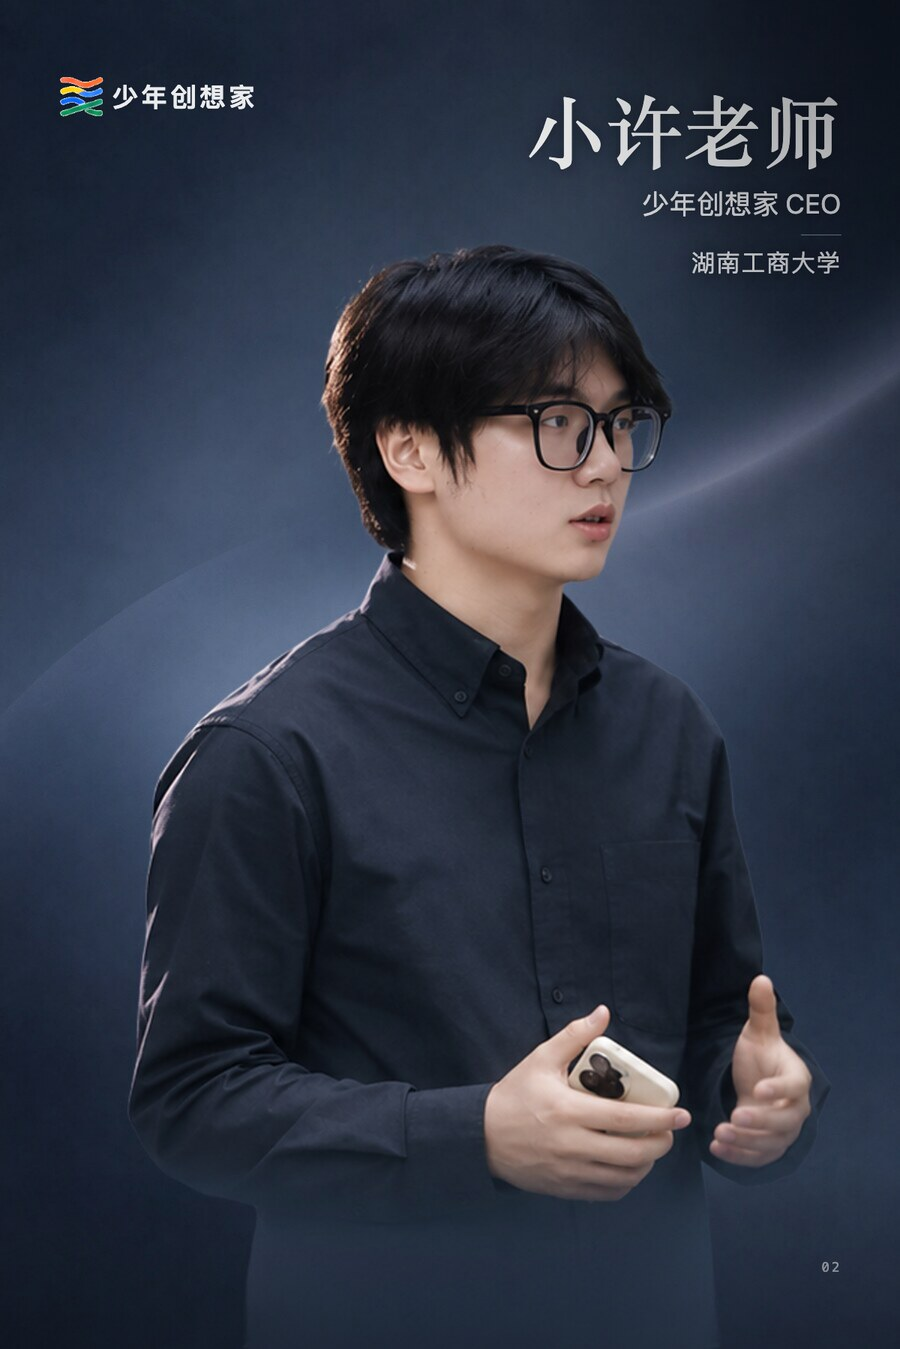
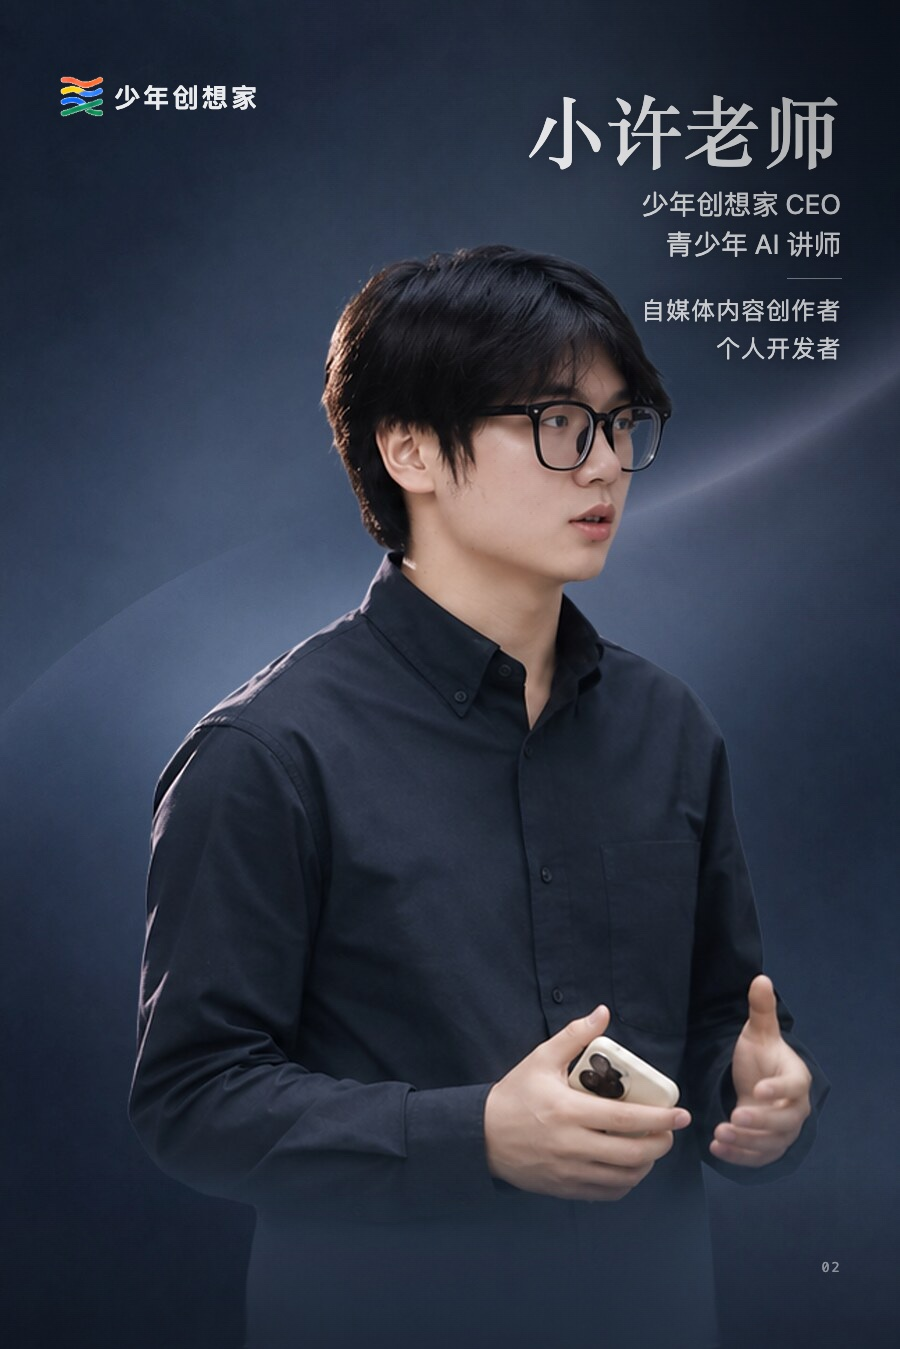
Publish CEO and teaching titles on mentor card

Changed region(s): [[0.7156, 0.1245, 0.9333, 0.2802], [0.1244, 0.0623, 0.28, 0.0934], [0.0622, 0.0623, 0.0933, 0.0934]]

diff --git a/event-demo.html b/event-demo.html
@@ -1353,6 +1353,294 @@ h2,
   .cap-visual, .cap-mount { height: 210px; }
 }
 
+/* Course rows are selectable controls; the community opens its contact image. */
+button.program-row { width:100%; border:0; background:transparent; font:inherit; text-align:left; cursor:pointer; }
+button.program-row:hover, button.program-row.is-active { background:var(--surface); }
+#qr-dialog { cursor:auto; overflow-y:auto; }
+#qr-lightbox-title { font-size:1.2rem; margin:0 0 12px; }
+#qr-dialog img { max-height:55dvh; touch-action:pan-x pan-y pinch-zoom; -webkit-touch-callout:default; user-select:auto; }
+#qr-download { margin:12px auto 0; min-height:44px; }
+
+/* The full brief occupies the same 240px illustration stage as its neighbours. */
+.question-flow { width:100%; max-width:360px; display:grid; gap:28px; padding:12px 8px; font-size:14px; }
+.question-seed { color:var(--ink); font-weight:650; }
+.question-branches { display:flex; justify-content:space-between; gap:10px; position:relative; }
+.question-branches::before { content:""; position:absolute; top:-14px; left:15%; right:15%; height:12px; border-top:1px solid #a9b7db; border-left:1px solid #a9b7db; border-right:1px solid #a9b7db; }
+.question-branches span { flex:1; text-align:center; padding:9px 2px; background:#e9eef9; color:#2445a6; border-radius:4px; }
+.question-goal { color:var(--ink); padding-left:12px; border-left:3px solid #2445a6; line-height:1.6; }
+
+
+.ocean-chapter { padding-block:80px; }
+.ocean-heading { display:flex; justify-content:space-between; align-items:end; gap:32px; margin-bottom:32px; }
+.ocean-heading h2 { font-size:clamp(30px,4.2vw,58px); line-height:1.25; letter-spacing:-.04em; }
+.ocean-heading p { color:var(--muted); font-size:17px; line-height:1.8; }
+#idea-ocean { min-height:480px; overflow:hidden; border-radius:12px; }
+.ocean-bottom { display:flex; justify-content:space-between; align-items:center; gap:24px; padding-top:16px; font-size:14px; color:var(--muted); }
+#brand-intro { position:fixed; inset:0; z-index:1000; isolation:isolate; overflow:hidden; background:#123da6; }
+#brand-intro[hidden] { display:none; }
+#brand-intro-scene { position:absolute; inset:0; pointer-events:none; }
+#brand-intro-scene > [data-motion-surface] { animation:intro-scene-in 240ms ease-out both; }
+@keyframes intro-scene-in { from { opacity:0; } }
+.intro-exit { pointer-events:none; }
+.intro-brand { position:absolute; inset:0; display:flex; justify-content:center; align-items:center; gap:16px; color:white; font-size:clamp(30px,6vw,64px); font-weight:750; text-shadow:0 2px 16px #00244988; pointer-events:none; }
+#intro-skip { position:absolute; right:24px; bottom:max(24px,env(safe-area-inset-bottom)); background:#ffffffdd; padding:12px 24px; border:0; border-radius:30px; color:#12346a; cursor:pointer; }
+@media(max-width:620px) { .ocean-heading{display:block}.ocean-heading p{margin-top:16px}.ocean-chapter{padding-block:48px}.ocean-bottom{align-items:start} }
+
+/* Branch experiment: the brand lines connect the hero to the reading section. */
+.hero-chapter { position:relative; isolation:isolate; overflow:clip; background:#f8f9fc; }
+#hero-wave { position:absolute; inset:0; width:100%; height:100%; z-index:-1; pointer-events:none; mask-image:linear-gradient(to right,transparent 15%,#000 65%); }
+.hero-grid { position:relative; }
+.manifesto-chapter { position:relative; background:var(--bg,#f7f8fa); }
+.intro-pending .hero-title [data-line], .intro-pending [data-load] { animation-play-state:paused; }
+.intro-pending .site-header, .intro-pending main { pointer-events:none; }
+#brand-intro { will-change:opacity; }
+.intro-brand { animation:intro-brand-in 600ms cubic-bezier(.22,1,.36,1) both; }
+@keyframes intro-brand-in { from {opacity:0; transform:translateY(10px)} to {opacity:1;transform:none} }
+@media(prefers-reduced-motion:reduce) { .intro-brand {animation:none} }
+
+/* Full-screen ocean hero, with foreground reading and a lower central composer. */
+.hero-chapter { min-height:calc(100svh - 72px); padding:42px 0 260px; background:#f7faff; }
+#idea-ocean { position:absolute; inset:0; min-height:0; border-radius:0; overflow:hidden; z-index:0; }
+.hero-grid { z-index:1; min-height:400px; align-items:center; pointer-events:none; }
+.hero-copy,.hero-stage { pointer-events:auto; }
+.hero-copy { padding-block:18px; background:none; }
+.hero-title { font-size:clamp(52px,6vw,86px); }
+.hero-lead { font-size:18px; max-width:33ch; }
+.hero-stage { background:radial-gradient(ellipse,#f7faffdc 20%,#f7faff00 70%); }
+.capability-chapter { padding-block:80px; }
+.cap-item { grid-template-rows:280px auto auto auto; }
+.cap-visual,.cap-mount { height:280px; }
+.cap-visual { overflow:visible; }
+.cap-feedback { font-size:13px!important; color:var(--muted); margin-top:12px; min-height:40px; }
+@media(max-width:960px) {
+  .hero-chapter { padding:24px 0 56px; }
+  .hero-grid { gap:230px; }
+  .hero-copy { max-width:550px; }
+  .hero-stage { max-width:550px; width:100%; margin-inline:auto; }
+}
+@media(max-width:620px) {
+  .hero-title { font-size:48px; }
+  .hero-lead { font-size:16px; }
+  .hero-english { font-size:24px; }
+  .hero-copy { padding-block:0; }
+  .hero-card-swap { min-height:290px; }
+  .capability-chapter { padding-block:48px; }
+}
+
+.hero-sticky { position:relative; isolation:isolate; }
+.chapter-seam { height:clamp(150px,14vw,220px); margin-bottom:-1px; color:#e7edfd; pointer-events:none; }
+.chapter-seam svg { display:block; width:100%; height:100%; }
+#seam-fill { fill:currentColor; }
+.seam-wash { fill:#d5e4ff; opacity:.6; }
+.manifesto-chapter { background:transparent; padding:0; position:relative; z-index:2; }
+.manifesto-sheet { background:linear-gradient(180deg,#e7edfd 0,#f7f8fa 92px); padding:4px 0 clamp(56px,8vw,120px); }
+@media (min-width:961px) and (min-height:740px) and (prefers-reduced-motion:no-preference) {
+  .hero-chapter { height:calc(100svh - 72px + 72vh); min-height:0; padding:0; overflow:visible; }
+  .hero-sticky { position:sticky; top:72px; height:calc(100svh - 72px); overflow:hidden; padding:42px 0 24px; }
+  .manifesto-chapter { margin-top:-72vh; }
+  .manifesto-sheet { min-height:72vh; box-sizing:border-box; display:flex; flex-direction:column; justify-content:center; }
+}
+
+
+/* Match the first rendered artwork to the card that takes over after hydration. */
+.hero-card-swap { position:relative; }
+.hero-card-swap > .hero-photo {
+  position:absolute; top:50%; left:50%; width:min(46%,210px); margin:0;
+  transform:translate(-60%,-48%) rotate(5deg); border:5px solid white;
+  border-radius:14px; box-shadow:0 12px 26px #17295529;
+}
+.hero-card-swap > .hero-photo img { aspect-ratio:4/5; object-fit:cover; display:block; }
+#idea-ocean {
+  background-color:#f7faff;
+  background-image:linear-gradient(#2136560a 1px,transparent 1px),linear-gradient(90deg,#2136560a 1px,transparent 1px);
+  background-size:14px 14px;
+}
+.cap-mount:empty::before {
+  content:""; display:block; width:70%; height:54px; margin:113px auto 0;
+  background:#e8edf5; border-radius:14px;
+}
+
+@media (min-width:961px) and (max-height:739px), (min-width:961px) and (prefers-reduced-motion:reduce) {
+  .hero-chapter { padding-bottom:24px; }
+  .hero-sticky { padding-bottom:220px; }
+}
+
+/* Course details: a quiet editorial extension of the program index. */
+.course-action,.course-consult { justify-self:start; border:0; border-radius:999px; background:#1d49bb; color:#fff; font:inherit; font-weight:650; padding:13px 23px; cursor:pointer; }
+.course-action:hover,.course-consult:hover { background:#123a9d; }
+.course-details { scroll-margin-top:88px; margin-top:28px; }
+.course-panel { overflow:hidden; border-radius:26px; background:#fff; box-shadow:0 14px 45px #1b346011; }
+.course-intro { display:grid; grid-template-columns:1.25fr .75fr; gap:45px; align-items:end; padding:clamp(28px,5vw,72px); background:#eef4ff; }
+.course-intro h3 { margin:10px 0 20px; font-family:var(--font-display,serif); font-size:clamp(2rem,4.4vw,4rem); line-height:1.15; letter-spacing:-.04em; }
+.course-intro p:not(.course-kicker) { max-width:35em; font-size:1.05rem; line-height:1.8; color:#4a5a73; }
+.course-kicker { margin:0; color:#315cba; font-size:.78rem; font-weight:700; letter-spacing:.13em; }
+.course-facts { display:flex; flex-wrap:wrap; gap:10px; }
+.course-facts span { border:1px solid #c1d1ed; border-radius:99px; padding:9px 14px; color:#244477; font-size:.9rem; }
+.course-section-head { display:flex; justify-content:space-between; gap:24px; align-items:end; padding:clamp(32px,5vw,64px) clamp(28px,5vw,72px) 24px; }
+.course-section-head h4,.course-outcome h4,.community-highlight h4 { margin:10px 0 0; font-family:var(--font-display,serif); font-size:clamp(1.65rem,3vw,2.5rem); line-height:1.3; }
+.course-section-head > p { max-width:22em; color:#65738a; line-height:1.7; }
+.lesson-grid,.module-grid { display:grid; grid-template-columns:repeat(3,minmax(0,1fr)); gap:1px; margin:0 clamp(28px,5vw,72px) clamp(32px,5vw,64px); background:#e3e9f2; border:1px solid #e3e9f2; }
+.lesson-grid > div,.module-grid > div { background:white; padding:24px; transition:background .25s ease,transform .25s ease; }
+.lesson-grid > div:hover,.module-grid > div:hover { background:#f2f6ff; }
+.lesson-grid span,.module-grid span { color:#4265b5; font-size:.8rem; font-weight:700; }
+.lesson-grid h5,.module-grid h5 { margin:12px 0 8px; font-size:1.03rem; line-height:1.4; }
+.lesson-grid p,.module-grid p { color:#637088; font-size:.95rem; line-height:1.7; }
+.course-outcome { background:#102751; color:#fff; padding:clamp(30px,5vw,65px) clamp(28px,5vw,72px); }
+.course-outcome .course-kicker { color:#9ebfff; }
+.course-outcome > p:not(.course-kicker) { max-width:60em; margin:18px 0; line-height:1.9; color:#d7e4ff; }
+.course-outcome .course-small { font-size:.92rem; }
+.course-outcome .course-consult { background:#fff; color:#163b85; margin-top:8px; }
+.community-highlight { display:grid; grid-template-columns:.7fr 1.3fr; gap:35px; align-items:center; padding:clamp(32px,5vw,65px) clamp(28px,5vw,72px); border-bottom:1px solid #e4ebf6; }
+.community-highlight strong { font-size:clamp(4rem,8vw,7rem); line-height:1; letter-spacing:-.07em; color:#244db3; }
+.community-highlight strong span { font-size:.5em; }
+.community-highlight p:not(.course-kicker) { margin-top:14px; color:#627089; line-height:1.8; }
+@media(max-width:767px) { .course-intro,.community-highlight { grid-template-columns:1fr; gap:28px; } .course-section-head { display:block; } .course-section-head > p { margin-top:12px; } .lesson-grid,.module-grid { grid-template-columns:repeat(2,minmax(0,1fr)); } .lesson-grid > div,.module-grid > div { padding:18px; } }
+@media(max-width:420px) { .lesson-grid,.module-grid { grid-template-columns:1fr; } }
+@media(prefers-reduced-motion:reduce) { .lesson-grid > div,.module-grid > div { transition:none; } }
+
+/* Course pages: a calmer, editorial path through each program. */
+a.program-row { text-decoration:none; color:inherit; }
+@keyframes course-orbit { to { transform:translate(-4%,8%) scale(1.08); } }
+.course-folds { margin:0 clamp(28px,5vw,72px) clamp(40px,6vw,78px); border-top:1px solid #dce5f2; }
+.course-fold { border-bottom:1px solid #dce5f2; }
+.course-fold summary { display:flex; align-items:center; gap:24px; list-style:none; padding:26px 0; cursor:pointer; }
+.course-fold summary::-webkit-details-marker { display:none; }
+.fold-number { color:#5273b7; font-size:.85rem; font-variant-numeric:tabular-nums; min-width:3em; }
+.fold-title { display:grid; gap:5px; flex:1; }
+.fold-title strong { font-size:clamp(1.08rem,1.8vw,1.3rem); }
+.fold-title small { font-size:.91rem; color:#738096; }
+.fold-icon { display:grid; place-items:center; width:36px; height:36px; border:1px solid #ccd9eb; border-radius:50%; font-size:1.3rem; color:#315cba; transition:transform .25s,background .25s; }
+.course-fold[open] .fold-icon { transform:rotate(45deg); background:#edf3ff; }
+.course-fold .lesson-grid,.course-fold .module-grid { margin:0 0 25px; border:0; }
+.course-fold .lesson-grid > div,.course-fold .module-grid > div { background:#f6f9fe; }
+
+html.course-dialog-open { overflow: hidden; }
+#course-dialog {
+  width: min(960px, calc(100% - 40px));
+  max-width: none;
+  max-height: min(86dvh, 900px);
+  border: 1px solid #d4def0;
+  padding: 0;
+  border-radius: 24px;
+  color: var(--ink);
+  background: white;
+  box-shadow: 0 25px 90px #0a1b4555;
+  overflow: hidden;
+}
+#course-dialog[open] { display: flex; flex-direction: column; animation: course-arrive .32s var(--ease-out); }
+#course-dialog::backdrop { background: #101b38a6; backdrop-filter: blur(5px); }
+@keyframes course-arrive { from { opacity: 0; transform: translateY(16px) scale(.985); } }
+.course-dialog-bar {
+  display: flex;
+  justify-content: space-between;
+  align-items: center;
+  gap: 14px;
+  padding: 15px clamp(18px,4vw,38px);
+  border-bottom: 1px solid #dce5f2;
+  flex: none;
+}
+.course-dialog-bar h2 { font-size: 1.05rem; line-height: 1.4; }
+.course-dialog-bar button { min-height: 44px; padding: 0 14px; border-radius: 30px; background: #eef3fb; white-space: nowrap; }
+.course-dialog-body { overflow: auto; overscroll-behavior: contain; }
+#course-dialog .course-panel { border-radius: 0; box-shadow: none; }
+#course-dialog .course-intro { align-items: center; }
+.course-simple { padding: clamp(24px,5vw,55px); }
+.course-simple p { margin-top: 12px; }
+/* Paid courses share one price block in the overview, before the syllabus. */
+.course-intro .course-facts { margin-top: 18px; }
+.course-price {
+  min-width: 0;
+  align-self: start;
+  padding: 16px;
+  border: 1px solid #cddcf6;
+  border-radius: 20px;
+  background: #fff;
+  box-shadow: 0 15px 35px #315b9c16;
+}
+.course-price-label { display: block; margin-bottom: 10px; color: #4b6081; font-size: .9rem; }
+.scratch-surface { position: relative; perspective: 750px; }
+.tuition-value {
+  display: grid;
+  align-content: center;
+  justify-items: center;
+  min-height: 128px;
+  border: 1px solid #b9cbea;
+  border-radius: 14px;
+  background: #f9fbff;
+  color: #254c99;
+}
+.tuition-value strong { font-size: clamp(2rem,6vw,3.25rem); line-height: 1.1; letter-spacing: -.04em; }
+.tuition-value span { margin-top: 6px; }
+.scratch-foil {
+  position: absolute;
+  inset: 0;
+  width: 100%;
+  height: 100%;
+  border-radius: 14px;
+  box-shadow: 0 5px 14px #20468430, inset 0 1px #fff;
+  cursor: crosshair;
+  touch-action: none;
+  transform: rotateY(var(--foil-tilt, 0deg));
+  transition: transform .25s ease-out;
+}
+.scratch-skip { min-height: 44px; color: #284d91; text-decoration: underline; text-underline-offset: 4px; }
+.scratch-status { position: absolute; width: 1px; height: 1px; overflow: hidden; clip-path: inset(50%); }
+@media (max-width: 600px) {
+  #course-dialog { width: calc(100% - 20px); max-height: 92dvh; border-radius: 18px; }
+  #course-dialog .course-intro { gap: 18px; padding: 20px; }
+  .course-fold summary { gap: 12px; padding: 20px 0; }
+  .fold-icon { flex: 0 0 36px; }
+}
+@media (prefers-reduced-motion: reduce) {
+  #course-dialog[open] { animation: none; }
+  .scratch-foil, .fold-icon { transition: none; }
+}
+
+/* ============ Mentors ============ */
+.mentors-chapter {
+  padding-block: clamp(44px, 6vw, 96px) clamp(52px, 7vw, 112px);
+}
+
+.mentor-grid {
+  margin-top: clamp(28px, 4vw, 52px);
+  display: grid;
+  grid-template-columns: repeat(3, minmax(0, 1fr));
+  gap: clamp(12px, 1.6vw, 24px);
+}
+
+.mentor-card {
+  position: relative;
+  overflow: hidden;
+  border-radius: 16px;
+  background: #16202c;
+  box-shadow: 0 12px 34px -18px rgba(11, 13, 18, .45);
+  transition: transform var(--t-ui) var(--ease-out), box-shadow var(--t-ui) var(--ease-out);
+}
+
+.mentor-card img {
+  display: block;
+  width: 100%;
+  height: auto;
+  transform: scale(1.001);
+  transform-origin: 50% 32%;
+  transition: transform 1400ms var(--ease-out);
+  will-change: transform;
+}
+
+@media (hover: hover) and (prefers-reduced-motion: no-preference) {
+  .mentor-card:hover { transform: translateY(-3px); box-shadow: 0 26px 48px -22px rgba(11, 13, 18, .5); }
+  .mentor-card:hover img { transform: scale(1.045); }
+}
+
+@media (max-width: 640px) {
+  .mentor-grid { grid-template-columns: 1fr; gap: 14px; }
+}
+
+@media (prefers-reduced-motion: reduce) {
+  .mentor-card,
+  .mentor-card img { transition: none; }
+}
+
 </style>
   
 </head>
@@ -1385,6 +1673,7 @@ h2,
 <script>
 (() => {
   const el = (id) => document.getElementById(id);
+  const staticHosting = document.documentElement.hasAttribute('data-static-hosting');
   const standalone = location.protocol === 'file:' || document.documentElement.hasAttribute('data-standalone-demo');
   const samples = {
     recruit: {
@@ -1401,12 +1690,12 @@ h2,
     },
   };
 
-  if (standalone) {
+  if (standalone && !staticHosting) {
     const inPreview = location.pathname.split('/').includes('preview');
     document.querySelectorAll('[data-back-home]').forEach((link) => {
       link.href = inPreview ? './index.html#events' : './site-demo.html#events';
     });
-  } else {
+  } else if (!staticHosting) {
     document.querySelectorAll('[data-back-home]').forEach((link) => { link.href = '/index.html#events'; });
   }
 
@@ -1467,7 +1756,7 @@ h2,
     }
     const pathMatch = location.pathname.match(/\/events\/([^/]+)\/?$/);
     const slug = params.get('slug') || (pathMatch ? decodeURIComponent(pathMatch[1]) : '');
-    if (!slug || standalone) {
+    if (!slug || standalone || staticHosting) {
       render(samples.recruit);
       return;
     }

diff --git a/index.html b/index.html
@@ -251,7 +251,7 @@
             <img src="./assets/mentor-01.jpg" width="900" height="1349" alt="西西老师，少年创想家创始人、心智愈信息科技有限公司 CEO" loading="lazy" decoding="async">
           </figure>
           <figure class="mentor-card">
-            <img src="./assets/mentor-02.jpg" width="900" height="1349" alt="小许老师，少年创想家 CEO，湖南工商大学" loading="lazy" decoding="async">
+            <img src="./assets/mentor-02.jpg" width="900" height="1349" alt="小许老师，少年创想家 CEO、青少年 AI 讲师，自媒体内容创作者、个人开发者" loading="lazy" decoding="async">
           </figure>
           <figure class="mentor-card">
             <img src="./assets/mentor-03.jpg" width="900" height="1349" alt="宝剑老师，少年创想家核心成员，中南大学、美团 AI 产品 Builder" loading="lazy" decoding="async">
